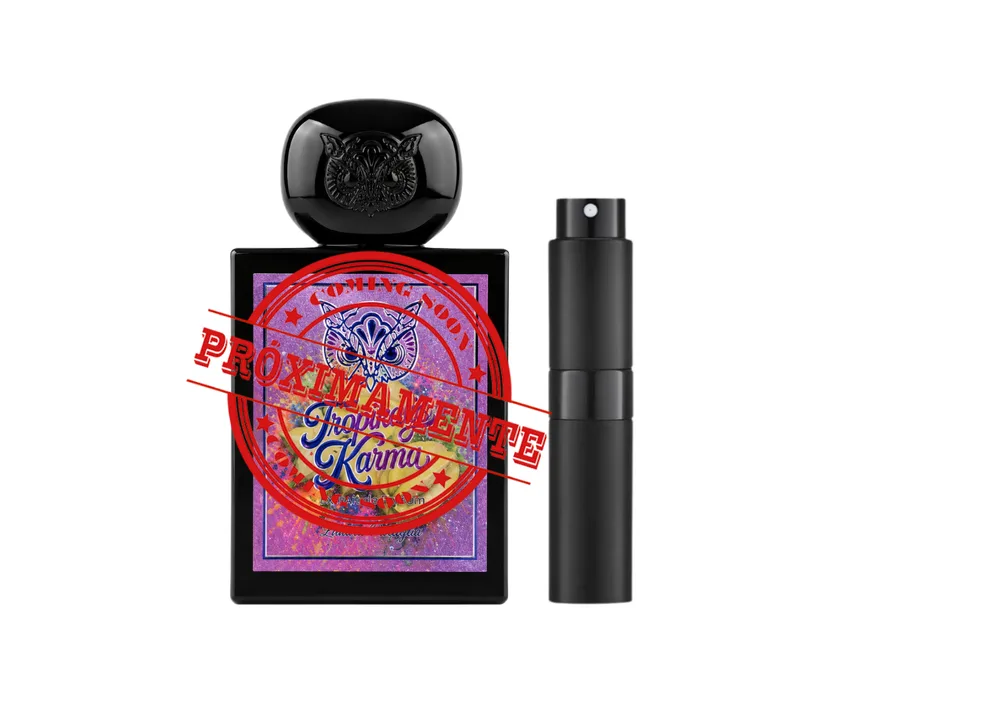
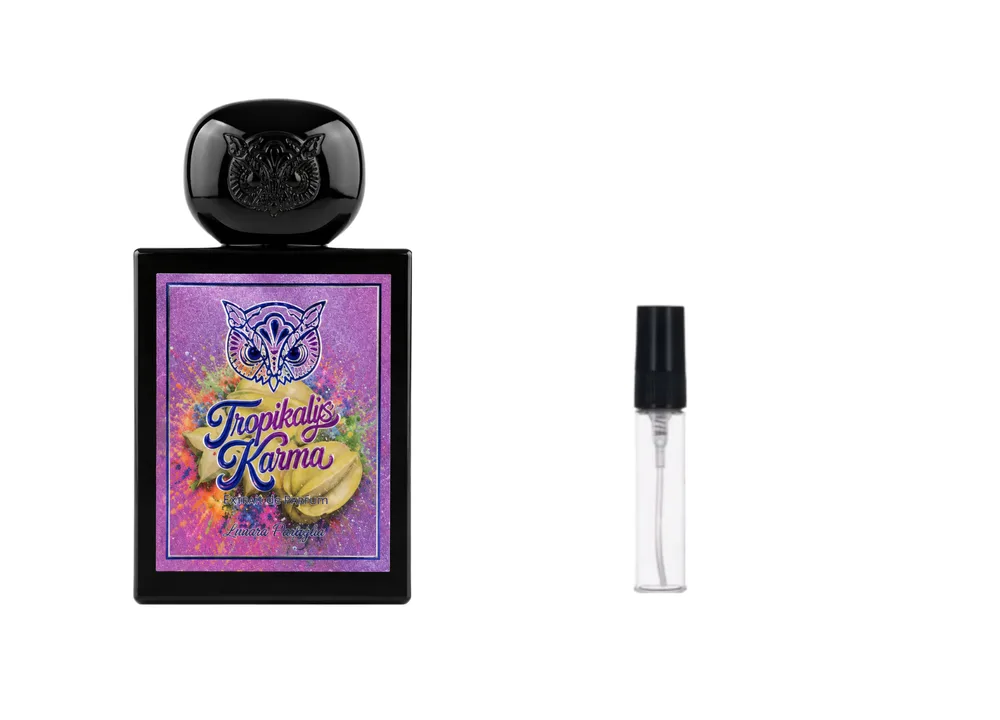
fix(catalog): Oud Maracuja size photos and sealed Tropikalys Karma image

Changed region(s): [[0.124, 0.1222, 0.713, 0.8556]]

diff --git a/productos.js b/productos.js
@@ -219,7 +219,7 @@
     12: { main: "img/perfumes_optimized/GOLD JUICE.webp", sizes: { "10_premium": "img/perfumes_optimized/GOLD JUICE decant premium 10 ml.webp", "30": "img/perfumes_optimized/GOLD JUICE decant 30 ml.webp", "5_premium": "img/perfumes_optimized/GOLD JUICE decant premium 5ml.webp" } },
     13: { main: "img/perfumes_optimized/INDECENT CHERRY.webp", sizes: { "10_premium": "img/perfumes_optimized/INDECENT CHERRY decant premium 10 ml.webp", "30": "img/perfumes_optimized/INDECENT CHERRY decant 30 ml.webp", "5_premium": "img/perfumes_optimized/INDECENT CHERRY decant premium 5ml.webp" } },
     14: { main: "img/perfumes_optimized/BLACK GUAVA.webp", sizes: { "10_premium": "img/perfumes_optimized/BLACK GUAVA decant premium 10 ml.webp", "20": "img/perfumes_optimized/BLACK GUAVA decant 20 ml.webp", "5_premium": "img/perfumes_optimized/BLACK GUAVA decant premium 5ml.webp" } },
-    15: { main: "img/perfumes_optimized/OUD MARACUJA decant premium 5ml.webp", sizes: { "10_premium": "img/perfumes_optimized/OUD MARACUJA decant premium 10 ml.webp", "20": "img/perfumes_optimized/OUD MARACUJA decant 20 ml.webp", "5_premium": "img/perfumes_optimized/OUD MARACUJA decant premium 5ml.webp" } },
+    15: { main: "img/perfumes_optimized/OUD MARACUJA.webp", sizes: { "5": "img/perfumes_optimized/OUD MARACUJA decant premium 5ml.webp", "5_premium": "img/perfumes_optimized/OUD MARACUJA decant premium 5ml.webp", "10": "img/perfumes_optimized/OUD MARACUJA decant premium 10 ml.webp", "10_premium": "img/perfumes_optimized/OUD MARACUJA decant premium 10 ml.webp", "20": "img/perfumes_optimized/OUD MARACUJA decant 20 ml.webp" } },
     16: { main: "img/perfumes_optimized/Venom Incarnat.webp", sizes: { "10_premium": "img/perfumes_optimized/Venom Incarnat decant premium 10 ml.webp", "20": "img/perfumes_optimized/Venom Incarnat 20ml.webp", "5_premium": "img/perfumes_optimized/Venom Incarnat decant premium 5ml.webp" } },
     17: { main: "img/perfumes_optimized/GOD OF FIRE.webp", sizes: { "10_premium": "img/perfumes_optimized/GOD OF FIRE decant premium 10 ml.webp", "20": "img/perfumes_optimized/GOD OF FIRE 20ml.webp", "5_premium": "img/perfumes_optimized/GOD OF FIRE decant premium 5ml.webp" } },
     18: { main: "img/perfumes_optimized/Sand Dance.webp", sizes: { "10_premium": "img/perfumes_optimized/Sand Dance decant premium 10 ml.webp", "20": "img/perfumes_optimized/Sand Dance 20ml.webp", "5_premium": "img/perfumes_optimized/Sand Dance decant premium 5ml.webp" } },
@@ -264,7 +264,7 @@
     57: { main: "img/perfumes_optimized/VAN SEA.webp", sizes: { "10_premium": "img/perfumes_optimized/VAN SEA decant premium 10 ml.webp", "20": "img/perfumes_optimized/VAN SEA 20ml.webp", "5_premium": "img/perfumes_optimized/VAN SEA decant premium 5ml.webp" } },
     58: { main: "img/perfumes_optimized/DREAM SEA.webp", sizes: { "10_premium": "img/perfumes_optimized/DREAM SEA decant premium 10 ml.webp", "20": "img/perfumes_optimized/DREAM SEA 20ml.webp", "5_premium": "img/perfumes_optimized/DREAM SEA decant premium 5ml.webp" } },
     59: { main: "img/perfumes_optimized/SEX SEA.webp", sizes: { "10_premium": "img/perfumes_optimized/SEX SEA decant premium 10 ml.webp", "20": "img/perfumes_optimized/SEX SEA 20ml.webp", "5_premium": "img/perfumes_optimized/SEX SEA decant premium 5ml.webp" } },
-    60: { main: "img/perfumes_optimized/TROPIKALYS KARMA.webp", sizes: { "10_premium": "img/perfumes_optimized/TROPIKALYS KARMA decant premium 10 ml.webp", "20": "img/perfumes_optimized/TROPIKALYS KARMA 20ml.webp", "5_premium": "img/perfumes_optimized/TROPIKALYS KARMA decant premium 5ml.webp" } },
+    60: { main: "img/perfumes_optimized/TROPIKALYS KARMA.webp", sizes: { "5": "img/perfumes_optimized/TROPIKALYS KARMA decant premium 5ml.webp", "5_premium": "img/perfumes_optimized/TROPIKALYS KARMA decant premium 5ml.webp", "10": "img/perfumes_optimized/TROPIKALYS KARMA decant premium 10 ml.webp", "10_premium": "img/perfumes_optimized/TROPIKALYS KARMA decant premium 10 ml.webp", "20": "img/perfumes_optimized/TROPIKALYS KARMA 20ml.webp" } },
     61: { main: "img/perfumes_optimized/BAHAR.webp", sizes: { "10_premium": "img/perfumes_optimized/BAHAR decant premium 10 ml.webp", "20": "img/perfumes_optimized/BAHAR 20ml.webp", "5_premium": "img/perfumes_optimized/BAHAR decant premium 5ml.webp" } },
     62: { main: "img/perfumes_optimized/NARCOTIC DELIGHT.webp", sizes: { "10_premium": "img/perfumes_optimized/NARCOTIC DELIGHT decant premium 10 ml.webp", "30": "img/perfumes_optimized/NARCOTIC DELIGHT 30ml.webp", "5_premium": "img/perfumes_optimized/NARCOTIC DELIGHT decant premium 5ml.webp" } },
     63: { main: "img/perfumes_optimized/MUSK THERAPY.webp", sizes: { "10_premium": "img/perfumes_optimized/MUSK THERAPY decant premium 10 ml.webp", "20": "img/perfumes_optimized/MUSK THERAPY 20ml.webp", "30": "img/perfumes_optimized/MUSK THERAPY 30ml.webp", "5_premium": "img/perfumes_optimized/MUSK THERAPY decant premium 5ml.webp" } },
@@ -357,14 +357,14 @@
     151: { main: "img/perfumes_optimized/BIRTH OF VENUS.webp", sizes: {} },
     152: { main: "img/perfumes_optimized/DREAM SEA.webp", sizes: {} },
     153: { main: "img/perfumes_optimized/GRIS CHARNEL EDP.webp", sizes: {} },
-    154: { main: "img/perfumes_optimized/TROPIKALYS KARMA.webp", sizes: {} },
+    154: { main: "img/perfumes_optimized/TROPIKALYS KARMA 50ML SELLADO.webp", sizes: {} },
     155: { main: "img/perfumes_optimized/VIBRATO 100ML SELLADO.webp", sizes: {} },
     156: { main: "img/perfumes_optimized/FRENCH RIVIERA 125ML SELLADO.webp", sizes: {} },
   };
   Object.entries(w.FO_PRODUCT_IMAGES).forEach(([id, imgs]) => {
     const p = w.FO_PRODUCTS.find((x) => x.id === Number(id));
     if (!p) return;
-    /* Sin foto base (ej. Oud Maracuja) se usa el vial 5ml como imagen principal */
+    /* Sin foto base (main vacío) se cae a la variante 5ml si existe */
     const main = imgs.main || imgs.sizes["5"] || "";
     p.cardImage = main;
     p.fullImage = main;

diff --git a/tests/e2e/fragrance.spec.js b/tests/e2e/fragrance.spec.js
@@ -496,6 +496,32 @@ test.describe('Modal Producto', () => {
   });
 });
 
+// ─── Fotos por tamaño (regresión 10/10) ───────────────────────
+test.describe('Fotos por tamaño', () => {
+  test('Oud Maracuja: card con el frasco y cada tamaño con su vial', async ({ page }) => {
+    await page.goto('/');
+    await waitForHydration(page);
+    await navigateTo(page, 'catalogo');
+    await page.fill('#catalogSearch', 'Oud Maracuja');
+    const card = page.locator('#catalogGrid [data-product-id="15"]');
+    await expect(card).toBeVisible();
+    await expect(card.locator('img')).toHaveAttribute('src', 'img/perfumes_optimized/OUD MARACUJA.webp');
+    await card.click();
+    await page.waitForSelector('.modal-overlay.active', { timeout: 5000 });
+    // Cada tamaño tiene su propia foto: el 10ml antes caía a la del 5ml
+    // porque solo existía la key "10_premium".
+    const porTamaño = [
+      ['5', 'img/perfumes_optimized/OUD MARACUJA decant premium 5ml.webp'],
+      ['10', 'img/perfumes_optimized/OUD MARACUJA decant premium 10 ml.webp'],
+      ['20', 'img/perfumes_optimized/OUD MARACUJA decant 20 ml.webp'],
+    ];
+    for (const [size, src] of porTamaño) {
+      await page.locator(`#modalSizes .size-option[data-size="${size}"]`).click();
+      await expect(page.locator('#modalImage img')).toHaveAttribute('src', src);
+    }
+  });
+});
+
 // ─── Guardas visuales P1 (móvil) ─────────────────────────────
 test.describe('Guardas visuales P1', () => {
   test('Combo no desborda y el modal no oculta sus controles', async ({ page }, testInfo) => {

diff --git a/tests/e2e/completos.spec.js b/tests/e2e/completos.spec.js
@@ -92,6 +92,9 @@ test('Nuevos sellados 08/10: Tropikalys Karma, Vibrato y French Riviera', async 
     await page.locator('#modalOverlay .modal-close').click();
   }
 
+  // La card del sellado Karma usa la foto del frasco solo (sin decants).
+  await expect(grid.locator('[data-product-id="154"] img')).toHaveAttribute('src', 'img/perfumes_optimized/TROPIKALYS KARMA 50ML SELLADO.webp');
+
   // Tropikalys Karma decant (60): sale de Próximamente y su foto ya no
   // trae el sello impreso.
   await openNavLink(page, 'Catálogo');
@@ -102,6 +105,15 @@ test('Nuevos sellados 08/10: Tropikalys Karma, Vibrato y French Riviera', async 
   await expect(decant.locator('.btn-add')).toBeEnabled();
   await decant.scrollIntoViewIfNeeded();
   await expect.poll(() => decant.locator('img').evaluate((img) => img.naturalWidth)).toBeGreaterThan(0);
+
+  // Los tamaños se recomponen desde la foto limpia: nada de sello rojo.
+  await decant.click();
+  await expect(page.locator('#modalOverlay')).toHaveClass(/active/);
+  await page.locator('#modalSizes .size-option[data-size="20"]').click();
+  await expect(page.locator('#modalImage img')).toHaveAttribute('src', 'img/perfumes_optimized/TROPIKALYS KARMA 20ml.webp');
+  await page.locator('#modalSizes .size-option[data-size="10"]').click();
+  await expect(page.locator('#modalImage img')).toHaveAttribute('src', 'img/perfumes_optimized/TROPIKALYS KARMA decant premium 10 ml.webp');
+  await page.locator('#modalOverlay .modal-close').click();
 
   // Birth of Venus: el decant (51) usa la foto nueva frasco + decants y el
   // sellado (151) conserva la foto de caja + frasco.

diff --git a/index.html b/index.html
@@ -138,7 +138,7 @@
     })();
   </script>
 
-  <link rel="stylesheet" href="styles.css?v=20261008" />
+  <link rel="stylesheet" href="styles.css?v=20261010" />
 </head>
 <body>
   <!-- Loading Screen -->
@@ -1041,7 +1041,7 @@
   <!-- Animation libraries (orden importa: GSAP → ScrollTrigger → app → animations) -->
   <script src="https://cdnjs.cloudflare.com/ajax/libs/gsap/3.12.5/gsap.min.js" defer></script>
   <script src="https://cdnjs.cloudflare.com/ajax/libs/gsap/3.12.5/ScrollTrigger.min.js" defer></script>
-  <script src="config.js?v=20261008" defer></script>
+  <script src="config.js?v=20261010" defer></script>
   <script>
     /* URLs canónicas dinámicas: respetan la URL real (GitHub Pages, localhost o dominio propio). */
     (function () {
@@ -1055,11 +1055,11 @@
       } catch (e) {}
     })();
   </script>
-  <script src="descuentos.js?v=20261008" defer></script>
-  <script src="productos.js?v=20261008" defer></script>
-  <script src="hero-stats.js?v=20261008" defer></script>
-  <script src="animations.js?v=20261008" defer></script>
-  <script src="script.js?v=20261008" defer></script>
+  <script src="descuentos.js?v=20261010" defer></script>
+  <script src="productos.js?v=20261010" defer></script>
+  <script src="hero-stats.js?v=20261010" defer></script>
+  <script src="animations.js?v=20261010" defer></script>
+  <script src="script.js?v=20261010" defer></script>
 
   <!-- Senja (reseñas reales): terceros, script público, async, se carga una
        sola vez y no bloquea el first paint. iframeResizer solo ajusta la

diff --git a/tests/release-coherence.js b/tests/release-coherence.js
@@ -5,7 +5,7 @@ const http = require("http");
 const path = require("path");
 
 const root = path.resolve(__dirname, "..");
-const release = "20261008";
+const release = "20261010";
 const critical = ["styles.css", "config.js", "descuentos.js", "productos.js", "hero-stats.js", "animations.js", "script.js"];
 const legacyAssets = Object.fromEntries(critical.map((file) => [file, file.endsWith(".css") ? "button{font:caption}" : "window.LEGACY_APP=true"]));
 const legacyWorker = `
@@ -108,7 +108,7 @@ function send(res, body, extension) {
   await offlineContext.setOffline(true);
   await offlinePage.reload({ waitUntil: "domcontentloaded" });
   assert.strictEqual(await offlinePage.locator(".off-title").innerText(), "Estás sin conexión");
-  assert.strictEqual(await offlinePage.locator('link[href="styles.css?v=20261008"]').evaluate((element) => !!element.sheet), true);
+  assert.strictEqual(await offlinePage.locator('link[href="styles.css?v=20261010"]').evaluate((element) => !!element.sheet), true);
   await offlineContext.setOffline(false);
 
   const noJs = await browser.newContext({ javaScriptEnabled: false, serviceWorkers: "block" });

diff --git a/admin.html b/admin.html
@@ -17,7 +17,7 @@
       catch (e) { document.documentElement.setAttribute("data-theme", "light"); }
     })();
   </script>
-  <link rel="stylesheet" href="styles.css?v=20261008" />
+  <link rel="stylesheet" href="styles.css?v=20261010" />
   <style>
     .adm-wrap { max-width: 1100px; margin: 0 auto; padding: 2.5rem 1.2rem 4rem; }
     .adm-head { display: flex; align-items: center; gap: .8rem; margin-bottom: 1.6rem; flex-wrap: wrap; }
@@ -102,7 +102,7 @@
     <div class="adm-orders" id="ordersList"></div>
   </div>
 
-  <script src="config.js?v=20261008"></script>
+  <script src="config.js?v=20261010"></script>
   <script>
     (function () {
       "use strict";

diff --git a/offline.html b/offline.html
@@ -11,7 +11,7 @@
   <link rel="preconnect" href="https://fonts.gstatic.com" crossorigin />
   <link rel="stylesheet"
     href="https://fonts.googleapis.com/css2?family=Cormorant+Garamond:wght@400;500;600&family=Jost:wght@300;400;500;600&display=swap" />
-  <link rel="stylesheet" href="styles.css?v=20261008" />
+  <link rel="stylesheet" href="styles.css?v=20261010" />
   <style>
     .off-wrap {
       min-height: 100vh; display: flex; flex-direction: column;

diff --git a/sw.js b/sw.js
@@ -6,8 +6,8 @@
  * OJO: si algún día se vuelve a cache-first para assets, CADA deploy
  * DEBE bumpear VERSION o los clientes se quedan con código viejo.
  */
-const RELEASE = "20261008";
-const VERSION = "fo-v87-catalog-update";
+const RELEASE = "20261010";
+const VERSION = "fo-v88-photo-fixes";
 const CORE_CACHE = `core-${VERSION}`;
 const IMG_CACHE = `img-${VERSION}`;
 const FONT_CACHE = `font-${VERSION}`;

diff --git a/HANDOFF.md b/HANDOFF.md
@@ -897,3 +897,68 @@ Los 5 puntos del cliente quedaron cerrados:
   Charnel Extrait modificadas + 4 webp `Mefisto Xerjoff*` nuevas (mismo
   criterio de las rondas anteriores; `img/perfumes/` es fuente y sigue en
   .gitignore).
+
+## Ronda 2026-10-10 - Fotos: Oud Maracuja y Tropikalys Karma sellado
+
+Dos pedidos del cliente, ambos de fotos de catálogo:
+
+1. **Oud Maracuja (id 15): "no está tomando la correcta"**. Diagnóstico en
+   dos capas:
+   - **Card / destacados**: el `main` era
+     `OUD MARACUJA decant premium 5ml.webp` (frasco + vialito) porque no
+     existía foto base del frasco (era el único producto del catálogo con
+     `main` = vial). Se generó **`OUD MARACUJA.webp`**: recorte del frasco
+     con sharp desde `img/perfumes/OUD MARACUJA decant premium 5ml.png`
+     (extract 360,100,330x900 + trim), recompuesto centrado sobre lienzo
+     blanco 4:5 (1000x1250) para que encaje en `.product-image`
+     (`aspect-ratio: 4/5`, `object-fit: contain`).
+   - **Modal**: al elegir **10ml** se mostraba la foto del 5ml. Causa:
+     `sizeImages` solo tenía la key `"10_premium"`, y `sizeImage()` cae a
+     `cardImage` cuando no encuentra `"10"` / `"10ml"` / `"10 ml"`. Se
+     añadieron las keys planas `"5"` y `"10"` apuntando a los mismos
+     viales que `_premium` (convención ya usada por los ids 5, 6, 7, 149,
+     150). 1/2/3ml siguen cayendo al frasco (no hay foto por tamaño).
+   - **Alcance**: 136 productos del catálogo comparten el patrón "solo
+     existe `*_premium`", pero en todos los demás el `main` ya es una foto
+     de frasco, así que el fallback se ve bien. Solo se corrigió el 15;
+     si el cliente repite la queja en otro perfume, repetir el mismo
+     patrón de keys planas.
+2. **Tropikalys Karma en "Perfumes completos" (id 154)**: la card usaba
+   `TROPIKALYS KARMA.webp` = frasco + 5 decants (foto pensada para el
+   decant, igual que Dream Sea / Vibrato usan caja + frasco). Se generó
+   **`TROPIKALYS KARMA 50ML SELLADO.webp`** recortando solo el frasco de
+   la foto limpia del 08/10 (`img/perfumes/TROPIKALYS KARMA.png`,
+   segmentación por perfil de columnas: frasco en x=153..570, y=147..906)
+   y recomponiéndolo sobre lienzo blanco 4:5. El decant (60) conserva la
+   foto con viales.
+3. **Bonus detectado en la investigación**: las tres fotos por tamaño del
+   decant Karma (5ml / 10ml / 20ml, del lote 08/26) seguían con el sello
+   rojo "PRÓXIMAMENTE" impreso del cliente, y el id 60 ya estaba a la
+   venta. Se **regeneraron los tres webps sin sello** recomponiendo
+   frasco + vial desde la foto limpia del 08/10 (viales en x=831/953/1063,
+   misma línea base y fondo blanco). No había foto limpia equivalente en
+   `img/perfumes/` (el sello está quemado en el PNG original).
+
+- **Datos**: `productos.js` solo cambió `FO_PRODUCT_IMAGES[15]`,
+  `[60]` (keys planas) y `[154]` (main sellado); el comentario de la
+  fusión (línea 367) ya no menciona a Oud Maracuja como ejemplo de "sin
+  foto base".
+- **Release bumpeada 20261008 -> 20261010** en `index.html` (7),
+  `admin.html` (2), `offline.html` (1), `sw.js` (`RELEASE`) y
+  `tests/release-coherence.js` (2); SW `fo-v87-catalog-update` ->
+  **`fo-v88-photo-fixes`** (obligatorio: `productos.js` va con `?v=`).
+- **Tests**: `tests/e2e/fragrance.spec.js` test nuevo **"Oud Maracuja:
+  card con el frasco y cada tamaño con su vial"** (describe "Fotos por
+  tamaño"): card = `OUD MARACUJA.webp` y modal 5/10/20ml con su vial
+  exacto; `tests/e2e/completos.spec.js` "Nuevos sellados 08/10" ahora
+  además fija `TROPIKALYS KARMA 50ML SELLADO.webp` en la card 154 y las
+  fotos sin sello del modal del decant 60 (20ml y 10ml).
+- **Resultado**: `npm test` **344 PASS | 0 FAIL x 6**; `npx playwright test`
+  **202 passed / 2 skipped / 0 failed** (204 tests: el nuevo "Fotos por
+  tamaño" corre en los 3 proyectos; la suite de completos pasó también en
+  las 3); smoke **14/14**; qa-catalog **108/108**; test-descuentos
+  **86/86**; `node tools/audit-images.js` **PASS** (155 productos, 1050
+  presentaciones, 2 DUPLICATE_SUSPICIOUS); release-coherence **PASS**.
+- **Nota**: el par 60/154 dejó de compartir foto, así que
+  `tools/audit-images.js` baja a **2 DUPLICATE_SUSPICIOUS** (siguen
+  Dream Sea 58/152 y Gris Charnel EDP 81/153).
